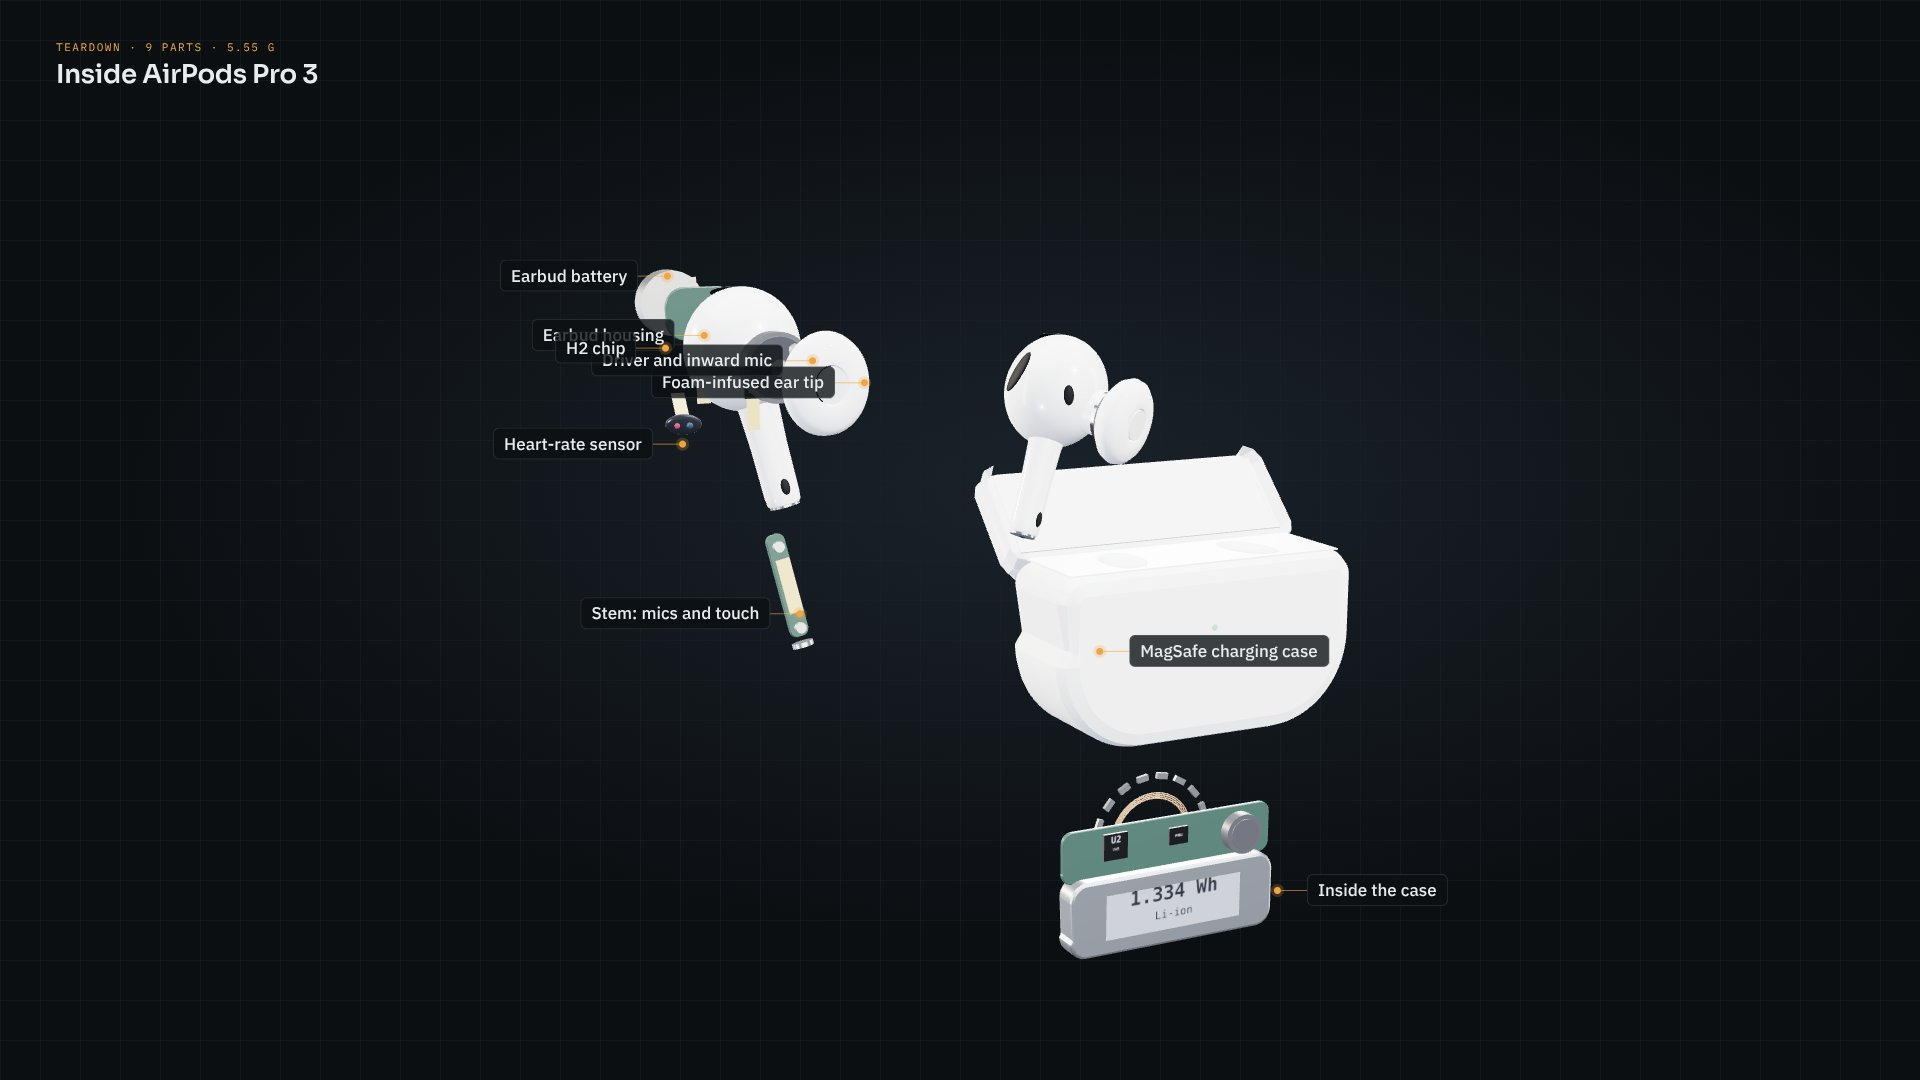
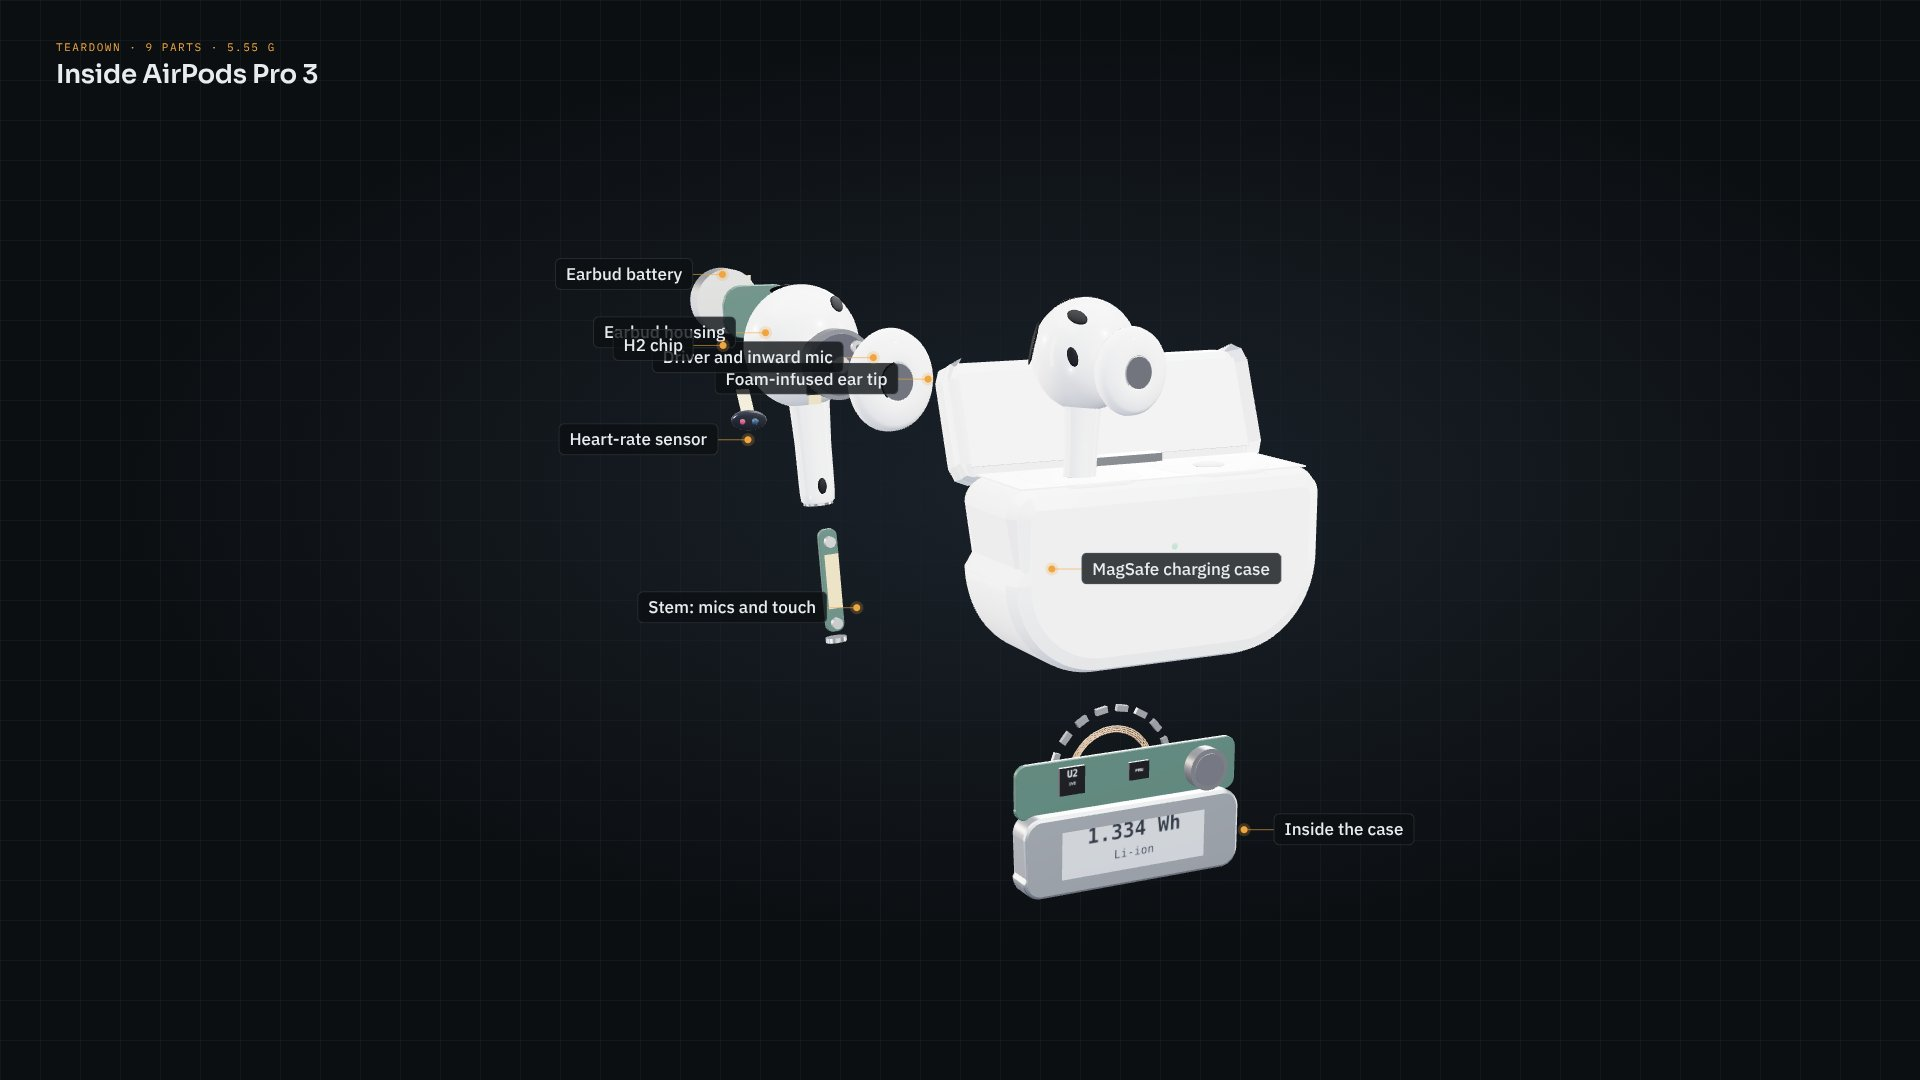
AirPods Pro 3 explorer: Apple-style front hero (buds seated in cradles, hinge, tip openings, top-front grilles)
Claude-Session: https://claude.ai/code/session_01GXcKc2DgGjDxQqSNnxqxZ7

Changed region(s): [[0.25, 0.2444, 0.75, 0.8861]]

diff --git a/phone-teardown/airpods-pro-3-teardown.html b/phone-teardown/airpods-pro-3-teardown.html
@@ -371,7 +371,7 @@ function patch(parent, dir, sx, sy, mat, rot = 0) {
   m.scale.set(sx, sy, 0.35); m.position.copy(p); m.lookAt(p.clone().add(n)); m.rotateZ(rot); parent.add(m); return m;
 }
 /* stem frame: top tucked into the head, leaning down and slightly forward */
-function stemFrame(parent) { const f = new THREE.Group(); f.position.set(1.0, HEAD.y - 5.0, 1.2); f.rotation.set(-0.16, 0, 0.2); parent.add(f); return f; }
+function stemFrame(parent) { const f = new THREE.Group(); f.position.set(0.6, HEAD.y - 5.0, 0.6); f.rotation.set(-0.05, 0, 0.06); parent.add(f); return f; }
 const STEM_L = 20.5;
 function stemShell(f, mat) {
   const prof = [[0.01, 0], [2.2, 0.05], [2.75, 0.6], [2.9, 2], [3.0, 10], [3.3, 16], [3.9, 19.6], [4.4, STEM_L + 1.5], [0.01, STEM_L + 1.5]];
@@ -387,7 +387,8 @@ function budOuter(parent, withTip = true) {
   ell(HR.x, HR.y, HR.z, w, HEAD.x, HEAD.y, HEAD.z, parent, 96);
   const noz = mesh(cyl(3.4, 4.0, 64), w, HEAD.x - 0.6, HEAD.y - 1.4, 8.6, parent); noz.scale.set(1, 1.15, 1);
   const ring = mesh(cyl(3.55, 0.7, 64), SILVER(), HEAD.x - 0.6, HEAD.y - 1.4, 10.3, parent); ring.scale.set(1, 1.15, 1);
-  patch(parent, [-0.1, 0.9, -0.42], 3.4, 1.7, MESH(), 0.15);      // top mic grille
+  patch(parent, [0.42, 0.66, 0.5], 2.0, 1.25, MESH(), 0.6);      // top mic grille, top-front
+  patch(parent, [-0.1, 0.9, -0.42], 3.4, 1.7, MESH(), 0.15);      // rear grille
   patch(parent, [0.92, 0.2, -0.32], 1.3, 3.8, MESH(), 0.2);       // side vent
   patch(parent, [0.62, 0.05, 0.72], 0.9, 1.7, MESH(), -0.3);      // front vent by the nozzle
   stemShell(stemFrame(parent), w);
@@ -398,7 +399,7 @@ function tipMesh(parent) {
   const pts = [[3.0, 0], [3.3, 0.6], [4.8, 1.3], [6.0, 2.5], [6.5, 3.9], [6.3, 5.1], [5.4, 6.1], [3.9, 6.6], [2.6, 6.7], [2.4, 6.2], [3.1, 1.0]];
   const geo = new THREE.LatheGeometry(pts.map(([r, y]) => new THREE.Vector2(r, y)), 96); geo.rotateX(Math.PI / 2);
   const m = mesh(geo, sil, HEAD.x - 0.6, HEAD.y - 1.4, 10.4, parent); m.scale.set(1, 1.15, 1);
-  const hole = mesh(cyl(2.3, 0.4, 32), std(0xb9bdc3, 0, 0.7), HEAD.x - 0.6, HEAD.y - 1.4, 16.95, parent); hole.scale.set(1, 1.15, 1);
+  const hole = mesh(cyl(2.3, 0.4, 32), new THREE.MeshBasicMaterial({ color: 0x24262b }), HEAD.x - 0.6, HEAD.y - 1.4, 17.2, parent); hole.scale.set(1, 1.15, 1);
   return m;
 }
 
@@ -427,7 +428,7 @@ addPart('driver', [0, 0, 11], { az: 0.85, el: 0.3, k: 1.9 }, [5.5, 8.2, 5.2], g 
   mesh(cyl(1.0, 1.0, 24), std(0x9aa0a8, 1, 0.3), 2.2, y + 2.6, z + 1.6, g);
   mesh(cyl(0.45, 0.2, 16), GRILLE(), 2.2, y + 2.6, z + 2.15, g);
   chipOn(g, 2.4, 2.0, 0.5, [['AMP', 70]], -4.0, y - 3.6, z - 0.8);
-  box(2.0, 6.5, 0.12, FLEX(), -3.8, y - 6.2, z - 0.9, g);
+  box(2.0, 3.0, 0.12, FLEX(), -3.8, y - 4.6, z - 0.9, g);
 });
 
 /* 4. Earbud housing (head + slanted stem + grilles), the reference part */
@@ -440,7 +441,7 @@ addPart('board', [0, 3, -18], { az: 2.5, el: 0.35, k: 1.8 }, [-6, 4.2, -2.6], g 
   const shield = std(0xb8bcc2, 0.95, 0.28);
   box(3.2, 2.4, 0.5, shield, 3.8, HEAD.y + 2.2, -2.8, g); box(2.0, 1.6, 0.4, shield, 3.9, HEAD.y - 1.0, -2.75, g);
   ['ACC', 'ACC'].forEach((l, i) => chipOn(g, 1.6, 1.6, 0.4, [[l, 64]], -4.6, HEAD.y + 2.6 - i * 3.1, -2.7, 0, Math.PI));
-  box(2.4, 11, 0.12, FLEX(), 0, HEAD.y - 8.5, -1.6, g);
+  box(2.4, 6, 0.12, FLEX(), 0, HEAD.y - 6.0, -1.6, g);
 });
 
 /* 6. Earbud battery */
@@ -471,7 +472,7 @@ addPart('stem', [3, -24, 0], { az: 0.6, el: 0.15, k: 1.5 }, [5.2, -10.5, 2.0], g
 });
 
 /* 8. MagSafe charging case, lid open, with the left earbud resting above it */
-const CASE = new THREE.Vector3(14, -48, -10), BODY_H = 33, LID_H = 14.2, CW = 62.2, CD = 21.8;
+const CASE = new THREE.Vector3(-11.6, -29.5, 0.8), BODY_H = 33, LID_H = 14.2, CW = 62.2, CD = 21.8;
 function caseShape(w, h, rb, rt) {   // rounded rectangle with different bottom / top corner radii
   const s = new THREE.Shape(), x = -w / 2, y = -h / 2;
   s.moveTo(x + rb, y); s.lineTo(x + w - rb, y); s.absarc(x + w - rb, y + rb, rb, -Math.PI / 2, 0);
@@ -484,9 +485,13 @@ addPart('case', [76, -4, -2], { az: -0.4, el: 0.3, k: 1.25 }, [CASE.x - 24, CASE
   mesh(extrude(caseShape(CW - 2 * bv, BODY_H - 2 * bv, 14, 1.5), CD, bv, 48), w, CASE.x, CASE.y, CASE.z, g);
   const inner = std(0xe9eaec, 0, 0.45);
   box(CW - 5, 0.3, CD - 5, inner, CASE.x, top + 0.05, CASE.z, g);
-  for (const sx of [-1, 1]) { const c = ell(4.4, 0.35, 7.0, std(0x9da2a9, 0, 0.6), CASE.x + sx * 13.5, top + 0.12, CASE.z + 0.5, g, 40); c.rotation.y = sx * 0.25; }
+  for (const sx of [-1, 1]) {   // rounded-square cradles the buds sit in
+    const well = mesh(extrude(rrShape(21, 15.5, 6.5), 1.2, 0.5, 24), std(0xd3d6db, 0, 0.5), CASE.x + sx * 13.2, top - 0.35, CASE.z + 0.5, g); well.rotation.x = -Math.PI / 2;
+    const slot = ell(3.0, 0.4, 2.5, std(0x8f949b, 0, 0.6), CASE.x + sx * 13.2, top + 0.3, CASE.z + 0.5, g, 32);
+  }
+  box(16, 2.2, 3.2, SILVER(), CASE.x, top + 0.6, CASE.z - CD / 2 + 2.4, g);   // hinge
   // lid, hinged at the back top edge and swung open
-  const hinge = new THREE.Group(); hinge.position.set(CASE.x, top, CASE.z - CD / 2 + 1.2); hinge.rotation.x = -2.35; g.add(hinge);
+  const hinge = new THREE.Group(); hinge.position.set(CASE.x, top, CASE.z - CD / 2 + 1.2); hinge.rotation.x = -1.92; g.add(hinge);
   mesh(extrude(caseShape(CW - 2 * bv, LID_H - 2 * bv, 1.5, 12), CD, bv, 48), w, 0, LID_H / 2, CD / 2 - 1.2, hinge);
   box(CW - 5, 0.3, CD - 5, inner, 0, 0.1, CD / 2 - 1.2, hinge);
   ell(0.6, 0.6, 0.2, std(0x1a1d22, 0.2, 0.3, { emissive: 0x2fbf5a, emissiveIntensity: 1.1 }), CASE.x, CASE.y + 5, CASE.z + CD / 2 + 0.02, g, 24);
@@ -498,7 +503,7 @@ addPart('case', [76, -4, -2], { az: -0.4, el: 0.3, k: 1.25 }, [CASE.x - 24, CASE
   for (const i of [-3, -2, 2, 3]) yCyl(0.5, 0.6, GRILLE(), CASE.x + i * 2.6, CASE.y - BODY_H / 2 - 0.15, CASE.z + 1, g, 16);
   // left earbud (mirror of the right one) floating above the open case
   const left = new THREE.Group(); budOuter(left, true);
-  left.scale.set(-1, 1, 1); left.position.set(CASE.x - 34, CASE.y + 42, CASE.z + 8); left.rotation.set(0.2, 0.45, -0.28); g.add(left);
+  left.scale.set(-1, 1, 1); left.position.set(CASE.x * 2 - 0.0, 0, 0); left.rotation.set(0, 0, 0); g.add(left);
 });
 
 /* 9. Inside the case */
@@ -520,7 +525,7 @@ addPart('caseInside', [76, -48, -2], { az: -0.3, el: -0.3, k: 1.3 }, [CASE.x + 2
 
 /* ---------------- View / state ---------------- */
 const N = parts.length;
-const OVERVIEW = { target: new THREE.Vector3(38, -26, 0), az: -0.55, el: 0.2, dist: 340, shift: 0 };
+const OVERVIEW = { target: new THREE.Vector3(28, -26, 0), az: -0.55, el: 0.2, dist: 340, shift: 0 };
 
 const view = clonePose(OVERVIEW);
 let explode = 1;
@@ -601,16 +606,16 @@ const segs = [];
 let tAcc = 0;
 function seg(o) { o.start = tAcc; tAcc += o.dur; segs.push(o); }
 seg({ kind: 'intro', dur: 4.5, focus: -1, explode: () => 0,
-  pose: t => ({ target: new THREE.Vector3(-2, -20, 0), az: -0.3 + 0.6 * t, el: 0.18, dist: 185, shift: 0.85 }), labels: () => 0, title: t => ['intro', clamp01(Math.min(t * 4.5 / 0.8, (1 - t) * 4.5 / 0.8))] });
+  pose: t => ({ target: new THREE.Vector3(-11.6, -14, 0), az: -0.2 + 0.4 * t, el: 0.46, dist: 205, shift: 0.85 }), labels: () => 0, title: t => ['intro', clamp01(Math.min(t * 4.5 / 0.8, (1 - t) * 4.5 / 0.8))] });
 seg({ kind: 'explode', dur: 4.5, focus: -1, explode: t => ease(clamp01(t * 1.15)),
-  pose: t => lerpPose({ target: new THREE.Vector3(-2, -20, 0), az: 0.3, el: 0.18, dist: 185, shift: 0.85 }, OVERVIEW, ease(t)), labels: t => clamp01((t - 0.75) / 0.25) });
+  pose: t => lerpPose({ target: new THREE.Vector3(-11.6, -14, 0), az: 0.2, el: 0.46, dist: 205, shift: 0.85 }, OVERVIEW, ease(t)), labels: t => clamp01((t - 0.75) / 0.25) });
 seg({ kind: 'overview', dur: 3.5, focus: -1, explode: () => 1,
   pose: t => Object.assign(clonePose(OVERVIEW), { az: OVERVIEW.az + 0.12 * t }), labels: () => 1 });
 parts.forEach((p, i) => seg({ kind: 'part', dur: PART_DUR, focus: i, explode: () => 1, pose: t => partPose(p, 0.16 * t - 0.08), labels: () => 0, card: true }));
 seg({ kind: 'overview2', dur: 3.5, focus: -1, explode: () => 1,
   pose: t => Object.assign(clonePose(OVERVIEW), { az: 1.2 + 0.25 * t }), labels: () => 1 });
 seg({ kind: 'collapse', dur: 5.5, focus: -1, explode: t => 1 - ease(clamp01(t * 1.4)),
-  pose: t => ({ target: new THREE.Vector3(-4, -18, 0), az: 1.45 + 2.0 * ease(t), el: 0.22, dist: 210, shift: 0.85 * ease(t) }), labels: () => 0,
+  pose: t => ({ target: new THREE.Vector3(-11.6, -10, 0), az: 1.45 + 2.0 * ease(t), el: 0.22, dist: 210, shift: 0.85 * ease(t) }), labels: () => 0,
   title: t => ['outro', clamp01((t - 0.45) / 0.15)] });
 const TOTAL = tAcc;
 

diff --git a/phone-teardown/build-airpods.py b/phone-teardown/build-airpods.py
@@ -84,7 +84,7 @@ function patch(parent, dir, sx, sy, mat, rot = 0) {
   m.scale.set(sx, sy, 0.35); m.position.copy(p); m.lookAt(p.clone().add(n)); m.rotateZ(rot); parent.add(m); return m;
 }
 /* stem frame: top tucked into the head, leaning down and slightly forward */
-function stemFrame(parent) { const f = new THREE.Group(); f.position.set(1.0, HEAD.y - 5.0, 1.2); f.rotation.set(-0.16, 0, 0.2); parent.add(f); return f; }
+function stemFrame(parent) { const f = new THREE.Group(); f.position.set(0.6, HEAD.y - 5.0, 0.6); f.rotation.set(-0.05, 0, 0.06); parent.add(f); return f; }
 const STEM_L = 20.5;
 function stemShell(f, mat) {
   const prof = [[0.01, 0], [2.2, 0.05], [2.75, 0.6], [2.9, 2], [3.0, 10], [3.3, 16], [3.9, 19.6], [4.4, STEM_L + 1.5], [0.01, STEM_L + 1.5]];
@@ -100,7 +100,8 @@ function budOuter(parent, withTip = true) {
   ell(HR.x, HR.y, HR.z, w, HEAD.x, HEAD.y, HEAD.z, parent, 96);
   const noz = mesh(cyl(3.4, 4.0, 64), w, HEAD.x - 0.6, HEAD.y - 1.4, 8.6, parent); noz.scale.set(1, 1.15, 1);
   const ring = mesh(cyl(3.55, 0.7, 64), SILVER(), HEAD.x - 0.6, HEAD.y - 1.4, 10.3, parent); ring.scale.set(1, 1.15, 1);
-  patch(parent, [-0.1, 0.9, -0.42], 3.4, 1.7, MESH(), 0.15);      // top mic grille
+  patch(parent, [0.42, 0.66, 0.5], 2.0, 1.25, MESH(), 0.6);      // top mic grille, top-front
+  patch(parent, [-0.1, 0.9, -0.42], 3.4, 1.7, MESH(), 0.15);      // rear grille
   patch(parent, [0.92, 0.2, -0.32], 1.3, 3.8, MESH(), 0.2);       // side vent
   patch(parent, [0.62, 0.05, 0.72], 0.9, 1.7, MESH(), -0.3);      // front vent by the nozzle
   stemShell(stemFrame(parent), w);
@@ -111,7 +112,7 @@ function tipMesh(parent) {
   const pts = [[3.0, 0], [3.3, 0.6], [4.8, 1.3], [6.0, 2.5], [6.5, 3.9], [6.3, 5.1], [5.4, 6.1], [3.9, 6.6], [2.6, 6.7], [2.4, 6.2], [3.1, 1.0]];
   const geo = new THREE.LatheGeometry(pts.map(([r, y]) => new THREE.Vector2(r, y)), 96); geo.rotateX(Math.PI / 2);
   const m = mesh(geo, sil, HEAD.x - 0.6, HEAD.y - 1.4, 10.4, parent); m.scale.set(1, 1.15, 1);
-  const hole = mesh(cyl(2.3, 0.4, 32), std(0xb9bdc3, 0, 0.7), HEAD.x - 0.6, HEAD.y - 1.4, 16.95, parent); hole.scale.set(1, 1.15, 1);
+  const hole = mesh(cyl(2.3, 0.4, 32), new THREE.MeshBasicMaterial({ color: 0x24262b }), HEAD.x - 0.6, HEAD.y - 1.4, 17.2, parent); hole.scale.set(1, 1.15, 1);
   return m;
 }
 
@@ -140,7 +141,7 @@ addPart('driver', [0, 0, 11], { az: 0.85, el: 0.3, k: 1.9 }, [5.5, 8.2, 5.2], g 
   mesh(cyl(1.0, 1.0, 24), std(0x9aa0a8, 1, 0.3), 2.2, y + 2.6, z + 1.6, g);
   mesh(cyl(0.45, 0.2, 16), GRILLE(), 2.2, y + 2.6, z + 2.15, g);
   chipOn(g, 2.4, 2.0, 0.5, [['AMP', 70]], -4.0, y - 3.6, z - 0.8);
-  box(2.0, 6.5, 0.12, FLEX(), -3.8, y - 6.2, z - 0.9, g);
+  box(2.0, 3.0, 0.12, FLEX(), -3.8, y - 4.6, z - 0.9, g);
 });
 
 /* 4. Earbud housing (head + slanted stem + grilles), the reference part */
@@ -153,7 +154,7 @@ addPart('board', [0, 3, -18], { az: 2.5, el: 0.35, k: 1.8 }, [-6, 4.2, -2.6], g 
   const shield = std(0xb8bcc2, 0.95, 0.28);
   box(3.2, 2.4, 0.5, shield, 3.8, HEAD.y + 2.2, -2.8, g); box(2.0, 1.6, 0.4, shield, 3.9, HEAD.y - 1.0, -2.75, g);
   ['ACC', 'ACC'].forEach((l, i) => chipOn(g, 1.6, 1.6, 0.4, [[l, 64]], -4.6, HEAD.y + 2.6 - i * 3.1, -2.7, 0, Math.PI));
-  box(2.4, 11, 0.12, FLEX(), 0, HEAD.y - 8.5, -1.6, g);
+  box(2.4, 6, 0.12, FLEX(), 0, HEAD.y - 6.0, -1.6, g);
 });
 
 /* 6. Earbud battery */
@@ -184,7 +185,7 @@ addPart('stem', [3, -24, 0], { az: 0.6, el: 0.15, k: 1.5 }, [5.2, -10.5, 2.0], g
 });
 
 /* 8. MagSafe charging case, lid open, with the left earbud resting above it */
-const CASE = new THREE.Vector3(14, -48, -10), BODY_H = 33, LID_H = 14.2, CW = 62.2, CD = 21.8;
+const CASE = new THREE.Vector3(-11.6, -29.5, 0.8), BODY_H = 33, LID_H = 14.2, CW = 62.2, CD = 21.8;
 function caseShape(w, h, rb, rt) {   // rounded rectangle with different bottom / top corner radii
   const s = new THREE.Shape(), x = -w / 2, y = -h / 2;
   s.moveTo(x + rb, y); s.lineTo(x + w - rb, y); s.absarc(x + w - rb, y + rb, rb, -Math.PI / 2, 0);
@@ -197,9 +198,13 @@ addPart('case', [76, -4, -2], { az: -0.4, el: 0.3, k: 1.25 }, [CASE.x - 24, CASE
   mesh(extrude(caseShape(CW - 2 * bv, BODY_H - 2 * bv, 14, 1.5), CD, bv, 48), w, CASE.x, CASE.y, CASE.z, g);
   const inner = std(0xe9eaec, 0, 0.45);
   box(CW - 5, 0.3, CD - 5, inner, CASE.x, top + 0.05, CASE.z, g);
-  for (const sx of [-1, 1]) { const c = ell(4.4, 0.35, 7.0, std(0x9da2a9, 0, 0.6), CASE.x + sx * 13.5, top + 0.12, CASE.z + 0.5, g, 40); c.rotation.y = sx * 0.25; }
+  for (const sx of [-1, 1]) {   // rounded-square cradles the buds sit in
+    const well = mesh(extrude(rrShape(21, 15.5, 6.5), 1.2, 0.5, 24), std(0xd3d6db, 0, 0.5), CASE.x + sx * 13.2, top - 0.35, CASE.z + 0.5, g); well.rotation.x = -Math.PI / 2;
+    const slot = ell(3.0, 0.4, 2.5, std(0x8f949b, 0, 0.6), CASE.x + sx * 13.2, top + 0.3, CASE.z + 0.5, g, 32);
+  }
+  box(16, 2.2, 3.2, SILVER(), CASE.x, top + 0.6, CASE.z - CD / 2 + 2.4, g);   // hinge
   // lid, hinged at the back top edge and swung open
-  const hinge = new THREE.Group(); hinge.position.set(CASE.x, top, CASE.z - CD / 2 + 1.2); hinge.rotation.x = -2.35; g.add(hinge);
+  const hinge = new THREE.Group(); hinge.position.set(CASE.x, top, CASE.z - CD / 2 + 1.2); hinge.rotation.x = -1.92; g.add(hinge);
   mesh(extrude(caseShape(CW - 2 * bv, LID_H - 2 * bv, 1.5, 12), CD, bv, 48), w, 0, LID_H / 2, CD / 2 - 1.2, hinge);
   box(CW - 5, 0.3, CD - 5, inner, 0, 0.1, CD / 2 - 1.2, hinge);
   ell(0.6, 0.6, 0.2, std(0x1a1d22, 0.2, 0.3, { emissive: 0x2fbf5a, emissiveIntensity: 1.1 }), CASE.x, CASE.y + 5, CASE.z + CD / 2 + 0.02, g, 24);
@@ -211,7 +216,7 @@ addPart('case', [76, -4, -2], { az: -0.4, el: 0.3, k: 1.25 }, [CASE.x - 24, CASE
   for (const i of [-3, -2, 2, 3]) yCyl(0.5, 0.6, GRILLE(), CASE.x + i * 2.6, CASE.y - BODY_H / 2 - 0.15, CASE.z + 1, g, 16);
   // left earbud (mirror of the right one) floating above the open case
   const left = new THREE.Group(); budOuter(left, true);
-  left.scale.set(-1, 1, 1); left.position.set(CASE.x - 34, CASE.y + 42, CASE.z + 8); left.rotation.set(0.2, 0.45, -0.28); g.add(left);
+  left.scale.set(-1, 1, 1); left.position.set(CASE.x * 2 - 0.0, 0, 0); left.rotation.set(0, 0, 0); g.add(left);
 });
 
 /* 9. Inside the case */
@@ -248,11 +253,11 @@ reps = [
  ("intro: ['Teardown', 'Inside a modern iPhone', 'Eleven layers, front to back, explained.'],", "intro: ['Teardown', 'Inside AirPods Pro 3', 'One earbud and its case, part by part.'],"),
  ("outro: ['8.25 millimetres', 'Everything, stacked.', 'Glass, display, Face ID, frame, logic board, battery, haptics, audio, cameras, MagSafe and back glass.'],",
   "outro: ['5.55 grams', 'A computer in your ear.', 'Driver, H2 chip, battery, heart-rate sensor and five microphones’ worth of listening, glued into a shell smaller than a grape.'],"),
- ("const OVERVIEW = { target: new THREE.Vector3(0, 0, 0), az: 0.92, el: 0.26, dist: 390, shift: 0 };", "const OVERVIEW = { target: new THREE.Vector3(38, -26, 0), az: -0.55, el: 0.2, dist: 340, shift: 0 };"),
+ ("const OVERVIEW = { target: new THREE.Vector3(0, 0, 0), az: 0.92, el: 0.26, dist: 390, shift: 0 };", "const OVERVIEW = { target: new THREE.Vector3(28, -26, 0), az: -0.55, el: 0.2, dist: 340, shift: 0 };"),
  ("const ASSEMBLED = { target: new THREE.Vector3(0, 0, 0), az: 0.45, el: 0.12, dist: 330, shift: 0 };", ""),
  ("const dist = Math.max(p.radius / Math.sin(FOV / 2) * p.view.k, 70);", "const dist = Math.max(p.radius / Math.sin(FOV / 2) * p.view.k, 28);"),
- ("pose: t => ({ target: new THREE.Vector3(0, 0, 0), az: -0.5 + 0.85 * t, el: 0.1, dist: 300, shift: 0.85 })", "pose: t => ({ target: new THREE.Vector3(-2, -20, 0), az: -0.3 + 0.6 * t, el: 0.18, dist: 185, shift: 0.85 })"),
- ("{ target: new THREE.Vector3(0, 0, 0), az: 0.35, el: 0.1, dist: 300, shift: 0.85 }, OVERVIEW", "{ target: new THREE.Vector3(-2, -20, 0), az: 0.3, el: 0.18, dist: 185, shift: 0.85 }, OVERVIEW"),
+ ("pose: t => ({ target: new THREE.Vector3(0, 0, 0), az: -0.5 + 0.85 * t, el: 0.1, dist: 300, shift: 0.85 })", "pose: t => ({ target: new THREE.Vector3(-11.6, -14, 0), az: -0.2 + 0.4 * t, el: 0.46, dist: 205, shift: 0.85 })"),
+ ("{ target: new THREE.Vector3(0, 0, 0), az: 0.35, el: 0.1, dist: 300, shift: 0.85 }, OVERVIEW", "{ target: new THREE.Vector3(-11.6, -14, 0), az: 0.2, el: 0.46, dist: 205, shift: 0.85 }, OVERVIEW"),
  ("az: 1.45 + 2.2 * ease(t), el: 0.14, dist: 330, shift: 0.85 * ease(t) })", "az: 1.45 + 2.0 * ease(t), el: 0.22, dist: 210, shift: 0.85 * ease(t) })"),
  ("{ dist: 450, shift: -0.4 } : { dist: 760, shift: 0.15 }", "{ dist: 300, shift: -0.4 } : { dist: 470, shift: 0.15 }"),
  ("goal.dist = Math.max(40, Math.min(900, dist0 * pinch0 / d))", "goal.dist = Math.max(18, Math.min(700, dist0 * pinch0 / d))"),
@@ -264,7 +269,7 @@ reps = [
 for x, y in reps:
     assert src.count(x) == 1, x
     src = src.replace(x, y)
-src = src.replace("target: new THREE.Vector3(0, 0, 0), az: 1.45", "target: new THREE.Vector3(-4, -18, 0), az: 1.45")
+src = src.replace("target: new THREE.Vector3(0, 0, 0), az: 1.45", "target: new THREE.Vector3(-11.6, -10, 0), az: 1.45")
 # brighter studio environment, same as the AirTag page
 env = open('build-airtag.py').read()
 env = env[env.index('env = r"""') + 10: env.index('"""', env.index('env = r"""') + 10)]
